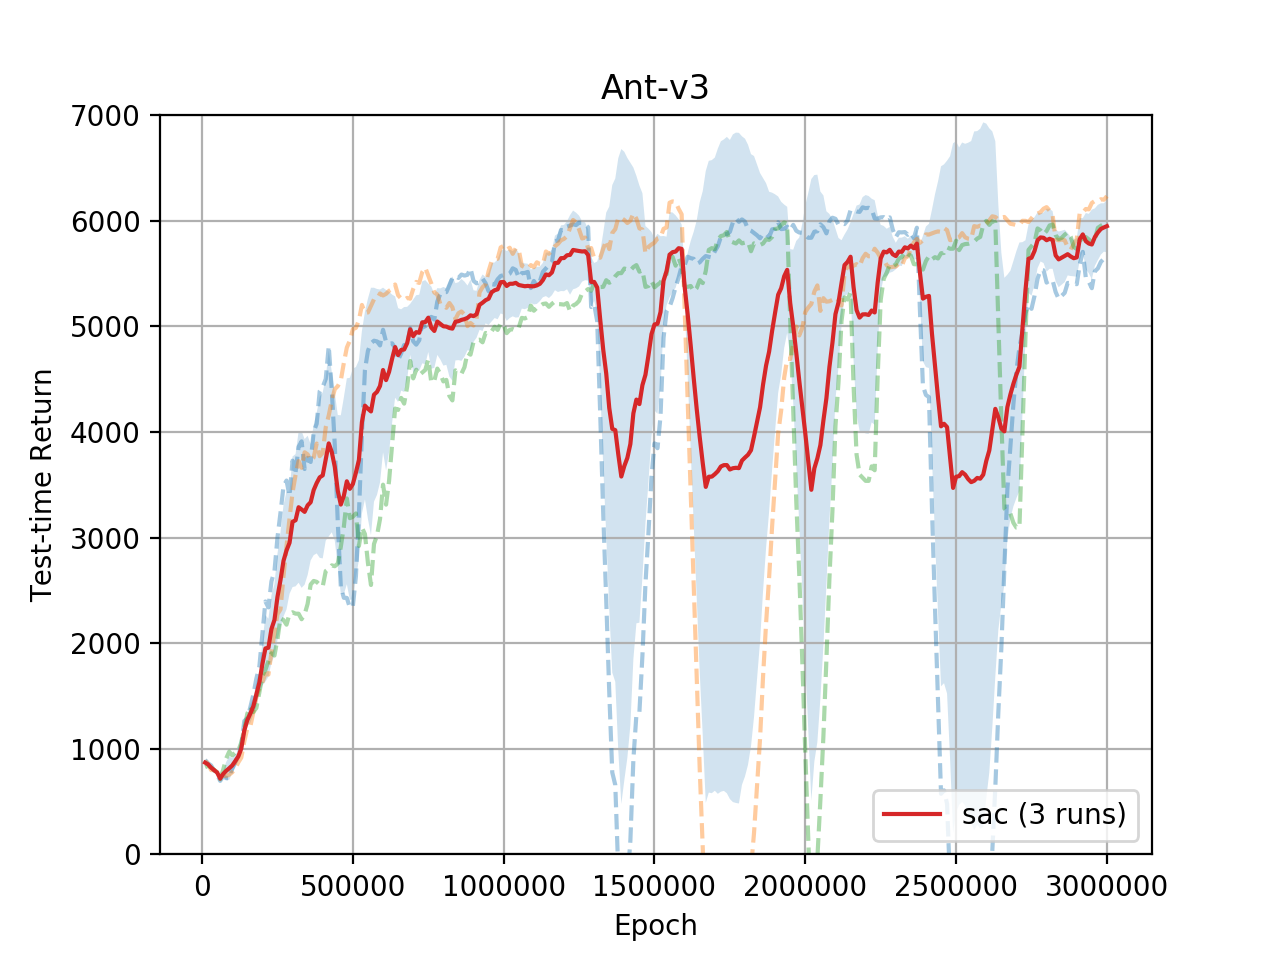
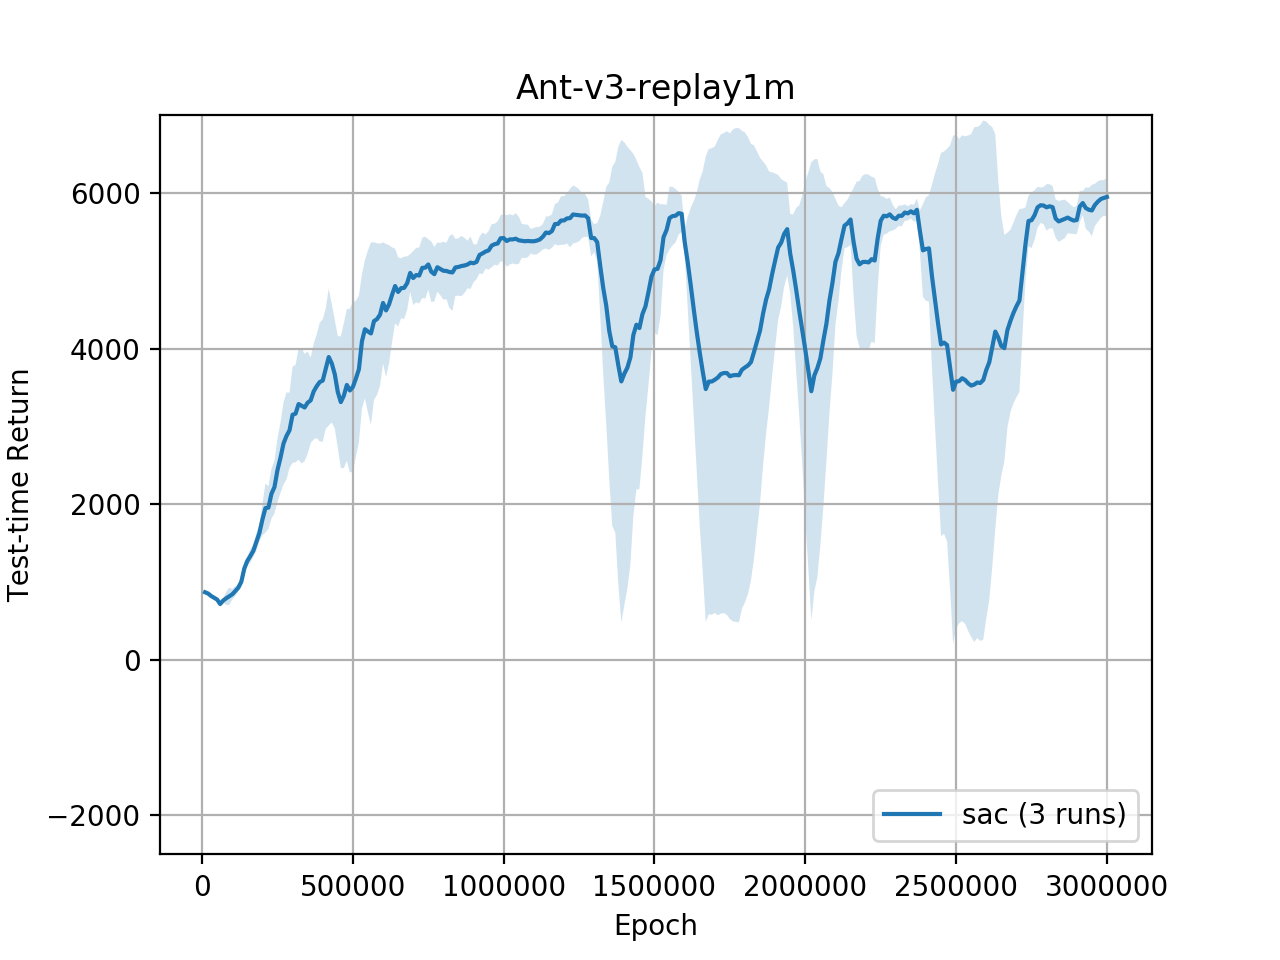
minor fix

diff --git a/offpcc/algorithms/sac.py b/offpcc/algorithms/sac.py
@@ -123,9 +123,9 @@ class SAC(OffPolicyRLAlgorithm):
                                                                           return_log_prob=True)
 
             min_Q_targ = torch.min(self.Q1_targ(b.ns, na), self.Q2_targ(b.ns, na))
-            targets = b.r + \
-                      self.gamma * (1 - b.d) * \
-                      (min_Q_targ - self.alpha * log_pi_na_given_ns)
+            entropy = - log_pi_na_given_ns
+
+            targets = b.r + self.gamma * (1 - b.d) * (min_Q_targ + self.alpha * entropy)
 
             assert na.shape == (bs, self.action_dim)
             assert log_pi_na_given_ns.shape == (bs, 1)
@@ -158,8 +158,11 @@ class SAC(OffPolicyRLAlgorithm):
         # compute policy loss
 
         a, log_pi_a_given_s = self.sample_action_from_distribution(b.s, deterministic=False, return_log_prob=True)
+
         min_Q = torch.min(self.Q1(b.s, a), self.Q2(b.s, a))
-        policy_loss = - torch.mean(min_Q - self.alpha * log_pi_a_given_s)
+        entropy = - log_pi_a_given_s
+
+        policy_loss = - torch.mean(min_Q + self.alpha * entropy)
 
         assert a.shape == (bs, self.action_dim)
         assert log_pi_a_given_s.shape == (bs, 1)

diff --git a/results/plot_avg_return.py b/results/plot_avg_return.py
@@ -39,7 +39,7 @@ def plot_all_runs(env_dir, plot_each):
 
         plt.plot(steps, mean_ep_ret, label=f'{algo_folder} ({len(run_folders)} runs)')
         plt.fill_between(steps, mean_ep_ret-std_ep_ret, mean_ep_ret+std_ep_ret, alpha=0.2)
-        plt.ylim(0, 7000)
+        plt.ylim(-2500, 7000)
 
 if __name__ == '__main__':
 
